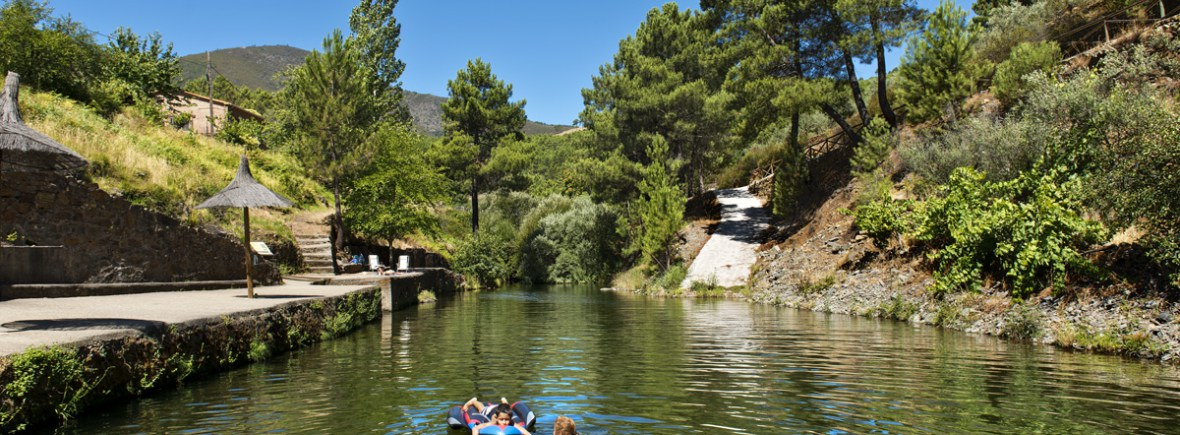
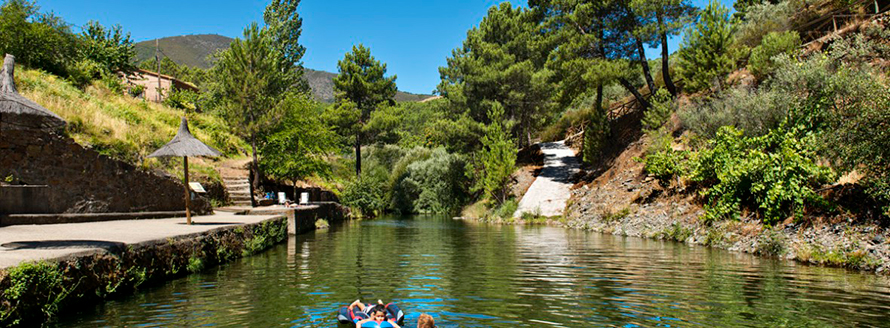
Aumentado caché de imágenes, modificados tamaños imágenes. Añadidos tamaños de las miga en el html

diff --git a/index.html b/index.html
@@ -21,13 +21,13 @@
 </head>
 <body dir="ltr">
 	<div id="main_container">
-        <a href="#menu" class="link-invisible">Go To Menu</a>
-	   <a href="#main-content" class="link-invisible">Go To the Main Content</a>
+		<a href="#menu" class="link-invisible">Go To Menu</a>
+		<a href="#main-content" class="link-invisible">Go To the Main Content</a>
 		<div class="container" id="home">
 			<div class="header row">              
 				<div class="col-xs-12 col-sm-6 col-md-4 col-lg-2">
 					<a href="index.html">
-						<img src="images/logo.gif" alt="Castillo de Hurdes" class="class-logo img-responsive">
+						<img src="images/logo.gif" alt="Castillo de Hurdes" class="class-logo img-responsive" height="335" width="588">
 					</a>
 				</div>
 				<form  action="#" method="get" class="navbar-form pull-right" role="search">
@@ -38,7 +38,7 @@
 					<button type="submit" class="btn btn-default" name="search">Search</button>
 				</form>
 			</div>
-            
+
 			<!--slider -->
 			<section>
 
@@ -46,17 +46,17 @@
 					<div id="slider-box">
 						<div class="slider-element">
 							<div class="element">
-								<img src="images/slider/hurdes-header-1.jpg" alt="River Crossing by Hurdes" class="class-header-img img-responsive cleaner">
+								<img src="images/slider/hurdes-header-1.jpg" alt="River Crossing by Hurdes" class="class-header-img img-responsive cleaner" width="1170" height="350">
 							</div>
 						</div>
 						<div class="slider-element">
 							<div class="element">
-								<img src="images/slider/hurdes-header-2.jpg" alt="Hurdes among the mountains" class="class-header-img img-responsive cleaner">
+								<img src="images/slider/hurdes-header-2.jpg" alt="Hurdes among the mountains" class="class-header-img img-responsive cleaner" width="1170" height="350">
 							</div>
 						</div>
 						<div class="slider-element">
 							<div class="element">
-								<img src="images/slider/hurdes-header-3.jpg" alt="Hurdes next to the mountains and the river" class="class-header-img img-responsive cleaner">
+								<img src="images/slider/hurdes-header-3.jpg" alt="Hurdes next to the mountains and the river" class="class-header-img img-responsive cleaner" width="1170" height="350">
 							</div>                            
 						</div>
 					</div>
@@ -95,13 +95,13 @@
 							<p><strong>Castillo</strong> is a very small village (less than a hundred people) depending on a relatively bigger village, Pinofranqueado.
 								With a lot of traditional little houses, the natural river (transformed into a swimming pool) and a huge mountain waiting for you!</p>
 
-								<img class="img-responsive" src="images/gallery/piscina.jpg" alt="Natural Swimming Pool">
+								<img class="img-responsive" src="images/gallery/piscina.jpg" alt="Natural Swimming Pool" height="328" width="890">
 
-						<h2>Relaxed Holidays</h2>
+								<h2>Relaxed Holidays</h2>
 
-						<p>Are you looking for a nature, chill and sunny weekend? Or even want to escape from the city noise and breathe some fresh air? <strong>Castillo</strong> is wating for you!</p>
+								<p>Are you looking for a nature, chill and sunny weekend? Or even want to escape from the city noise and breathe some fresh air? <strong>Castillo</strong> is wating for you!</p>
 
-						<p class="text-center"><a href="town.html">What can Castillo offer?</a></p>
+								<p class="text-center"><a href="town.html">What can Castillo offer?</a></p>
 
 							</div>
 						</div>
@@ -119,11 +119,11 @@
 							<div class="col-md-3">
 								<div class="text-left">
 									<a href="https://www.facebook.com/castillodehurdes/" target="_blank">
-										<img src="images/facebook.png" alt="Follow us on Facebook"  >
+										<img src="images/facebook.png" alt="Follow us on Facebook" height="26" width="26">
 									</a> 
-									<a href="https://twitter.com/CastilloHurdes" target="_blank"><img src="images/twitter.png" alt="Follow us on Twitter"  ></a>
+									<a href="https://twitter.com/CastilloHurdes" target="_blank"><img src="images/twitter.png" alt="Follow us on Twitter" height="26" width="26"></a>
 
-									<a href="https://www.instagram.com/castillodehurdes/" target="_blank"><img src="images/instagram.png" alt="Follow us on Instagram"></a>
+									<a href="https://www.instagram.com/castillodehurdes/" target="_blank"><img src="images/instagram.png" alt="Follow us on Instagram" height="26" width="26"></a>
 								</div>
 							</div>				
 						</div>

diff --git a/activities.html b/activities.html
@@ -45,17 +45,17 @@
 					<div id="slider-box">
 						<div class="slider-element">
 							<div class="element">
-								<img src="images/slider/hurdes-header-1.jpg" alt="slider image Hurdes 1" class="class-header-img img-responsive cleaner">
+								<img src="images/slider/hurdes-header-1.jpg" alt="slider image Hurdes 1" class="class-header-img img-responsive cleaner" width="1170" height="350">
 							</div>
 						</div>
 						<div class="slider-element">
 							<div class="element">
-								<img src="images/slider/hurdes-header-2.jpg" alt="slider image Hurdes 2" class="class-header-img img-responsive cleaner">
+								<img src="images/slider/hurdes-header-2.jpg" alt="slider image Hurdes 2" class="class-header-img img-responsive cleaner" width="1170" height="350">
 							</div>
 						</div>
 						<div class="slider-element">
 							<div class="element">
-								<img src="images/slider/hurdes-header-3.jpg" alt="slider image Hurdes 3" class="class-header-img img-responsive cleaner">
+								<img src="images/slider/hurdes-header-3.jpg" alt="slider image Hurdes 3" class="class-header-img img-responsive cleaner" width="1170" height="350">
 							</div>                            
 						</div>
 					</div>
@@ -226,11 +226,11 @@
 					<div class="col-md-3">
 						<div class="text-left">
 							<a href="https://www.facebook.com/castillodehurdes/" target="_blank">
-								<img src="images/facebook.png" alt="Follow us on Facebook" >
+								<img src="images/facebook.png" alt="Follow us on Facebook" height="26" width="26">
 							</a> 
-							<a href="https://twitter.com/CastilloHurdes" target="_blank"><img src="images/twitter.png" alt="Follow us on Twitter" ></a>
+							<a href="https://twitter.com/CastilloHurdes" target="_blank"><img src="images/twitter.png" alt="Follow us on Twitter" height="26" width="26"></a>
 
-							<a href="https://www.instagram.com/castillodehurdes/" target="_blank"><img src="images/instagram.png" alt="Follow us on Instagram"></a>
+							<a href="https://www.instagram.com/castillodehurdes/" target="_blank"><img src="images/instagram.png" alt="Follow us on Instagram" height="26" width="26"></a>
 						</div>
 					</div>					
 				</div>

diff --git a/gallery.html b/gallery.html
@@ -45,17 +45,17 @@
 					<div id="slider-box">
 						<div class="slider-element">
 							<div class="element">
-								<img src="images/slider/hurdes-header-1.jpg" alt="slider image Hurdes 1" class="class-header-img img-responsive cleaner">
+								<img src="images/slider/hurdes-header-1.jpg" alt="slider image Hurdes 1" class="class-header-img img-responsive cleaner" width="1170" height="350">
 							</div>
 						</div>
 						<div class="slider-element">
 							<div class="element">
-								<img src="images/slider/hurdes-header-2.jpg" alt="slider image Hurdes 2" class="class-header-img img-responsive cleaner">
+								<img src="images/slider/hurdes-header-2.jpg" alt="slider image Hurdes 2" class="class-header-img img-responsive cleaner" width="1170" height="350">
 							</div>
 						</div>
 						<div class="slider-element">
 							<div class="element">
-								<img src="images/slider/hurdes-header-3.jpg" alt="slider image Hurdes 3" class="class-header-img img-responsive cleaner">
+								<img src="images/slider/hurdes-header-3.jpg" alt="slider image Hurdes 3" class="class-header-img img-responsive cleaner" width="1170" height="350">
 							</div>                            
 						</div>
 					</div>
@@ -129,11 +129,11 @@
 				<div class="col-md-3">
 					<div class="text-left">
 						<a href="https://www.facebook.com/castillodehurdes/" target="_blank">
-							<img src="images/facebook.png" alt="Follow us on Facebook"  >
+							<img src="images/facebook.png" alt="Follow us on Facebook" height="26" width="26">
 						</a> 
-						<a href="https://twitter.com/CastilloHurdes" target="_blank"><img src="images/twitter.png" alt="Follow us on Twitter"  ></a>
+						<a href="https://twitter.com/CastilloHurdes" target="_blank"><img src="images/twitter.png" alt="Follow us on Twitter" height="26" width="26"></a>
 
-						<a href="https://www.instagram.com/castillodehurdes/" target="_blank"><img src="images/instagram.png" alt="Follow us on Instagram"  ></a>
+						<a href="https://www.instagram.com/castillodehurdes/" target="_blank"><img src="images/instagram.png" alt="Follow us on Instagram" height="26" width="26"></a>
 					</div>
 				</div>					
 			</div>

diff --git a/contact.html b/contact.html
@@ -45,17 +45,17 @@
 					<div id="slider-box">
 						<div class="slider-element">
 							<div class="element">
-								<img src="images/slider/hurdes-header-1.jpg" alt="slider image Hurdes 1" class="class-header-img img-responsive cleaner">
+								<img src="images/slider/hurdes-header-1.jpg" alt="slider image Hurdes 1" class="class-header-img img-responsive cleaner" width="1170" height="350">
 							</div>
 						</div>
 						<div class="slider-element">
 							<div class="element">
-								<img src="images/slider/hurdes-header-2.jpg" alt="slider image Hurdes 2" class="class-header-img img-responsive cleaner">
+								<img src="images/slider/hurdes-header-2.jpg" alt="slider image Hurdes 2" class="class-header-img img-responsive cleaner" width="1170" height="350">
 							</div>
 						</div>
 						<div class="slider-element">
 							<div class="element">
-								<img src="images/slider/hurdes-header-3.jpg" alt="slider image Hurdes 3" class="class-header-img img-responsive cleaner">
+								<img src="images/slider/hurdes-header-3.jpg" alt="slider image Hurdes 3" class="class-header-img img-responsive cleaner" width="1170" height="350">
 							</div>                            
 						</div>
 					</div>
@@ -140,11 +140,11 @@
 				<div class="col-md-3">
 					<div class="text-left">
 						<a href="https://www.facebook.com/castillodehurdes/" target="_blank">
-							<img src="images/facebook.png" alt="Follow us on Facebook" >
+							<img src="images/facebook.png" alt="Follow us on Facebook" height="26" width="26">
 						</a> 
-						<a href="https://twitter.com/CastilloHurdes" target="_blank"><img src="images/twitter.png" alt="Follow us on Twitter" ></a>
+						<a href="https://twitter.com/CastilloHurdes" target="_blank"><img src="images/twitter.png" alt="Follow us on Twitter" height="26" width="26"></a>
 
-						<a href="https://www.instagram.com/castillodehurdes/" target="_blank"><img src="images/instagram.png" alt="Follow us on Instagram"></a>
+						<a href="https://www.instagram.com/castillodehurdes/" target="_blank"><img src="images/instagram.png" alt="Follow us on Instagram" height="26" width="26"></a>
 					</div>
 				</div>					
 			</div>

diff --git a/postcard.html b/postcard.html
@@ -45,17 +45,17 @@
 					<div id="slider-box">
 						<div class="slider-element">
 							<div class="element">
-								<img src="images/slider/hurdes-header-1.jpg" alt="slider image Hurdes 1" class="class-header-img img-responsive cleaner">
+								<img src="images/slider/hurdes-header-1.jpg" alt="slider image Hurdes 1" class="class-header-img img-responsive cleaner" width="1170" height="350">
 							</div>
 						</div>
 						<div class="slider-element">
 							<div class="element">
-								<img src="images/slider/hurdes-header-2.jpg" alt="slider image Hurdes 2" class="class-header-img img-responsive cleaner">
+								<img src="images/slider/hurdes-header-2.jpg" alt="slider image Hurdes 2" class="class-header-img img-responsive cleaner" width="1170" height="350">
 							</div>
 						</div>
 						<div class="slider-element">
 							<div class="element">
-								<img src="images/slider/hurdes-header-3.jpg" alt="slider image Hurdes 3" class="class-header-img img-responsive cleaner">
+								<img src="images/slider/hurdes-header-3.jpg" alt="slider image Hurdes 3" class="class-header-img img-responsive cleaner" width="1170" height="350">
 							</div>                            
 						</div>
 					</div>

diff --git a/town.html b/town.html
@@ -45,17 +45,17 @@
 					<div id="slider-box">
 						<div class="slider-element">
 							<div class="element">
-								<img src="images/slider/hurdes-header-1.jpg" alt="slider image Hurdes 1" class="class-header-img img-responsive cleaner">
+								<img src="images/slider/hurdes-header-1.jpg" alt="slider image Hurdes 1" class="class-header-img img-responsive cleaner" width="1170" height="350">
 							</div>
 						</div>
 						<div class="slider-element">
 							<div class="element">
-								<img src="images/slider/hurdes-header-2.jpg" alt="slider image Hurdes 2" class="class-header-img img-responsive cleaner">
+								<img src="images/slider/hurdes-header-2.jpg" alt="slider image Hurdes 2" class="class-header-img img-responsive cleaner" width="1170" height="350">
 							</div>
 						</div>
 						<div class="slider-element">
 							<div class="element">
-								<img src="images/slider/hurdes-header-3.jpg" alt="slider image Hurdes 3" class="class-header-img img-responsive cleaner">
+								<img src="images/slider/hurdes-header-3.jpg" alt="slider image Hurdes 3" class="class-header-img img-responsive cleaner" width="1170" height="350">
 							</div>                            
 						</div>
 					</div>
